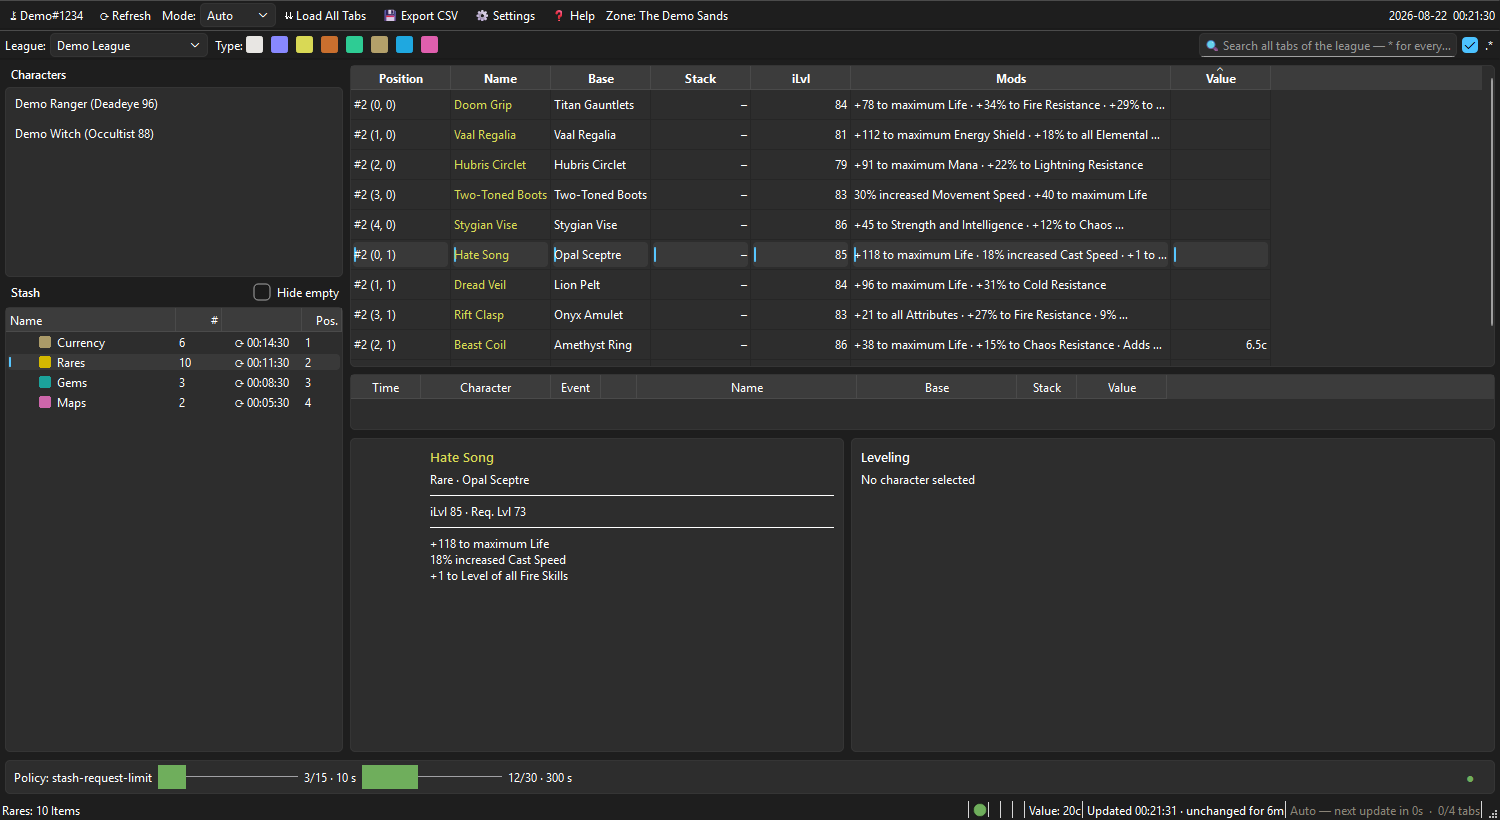
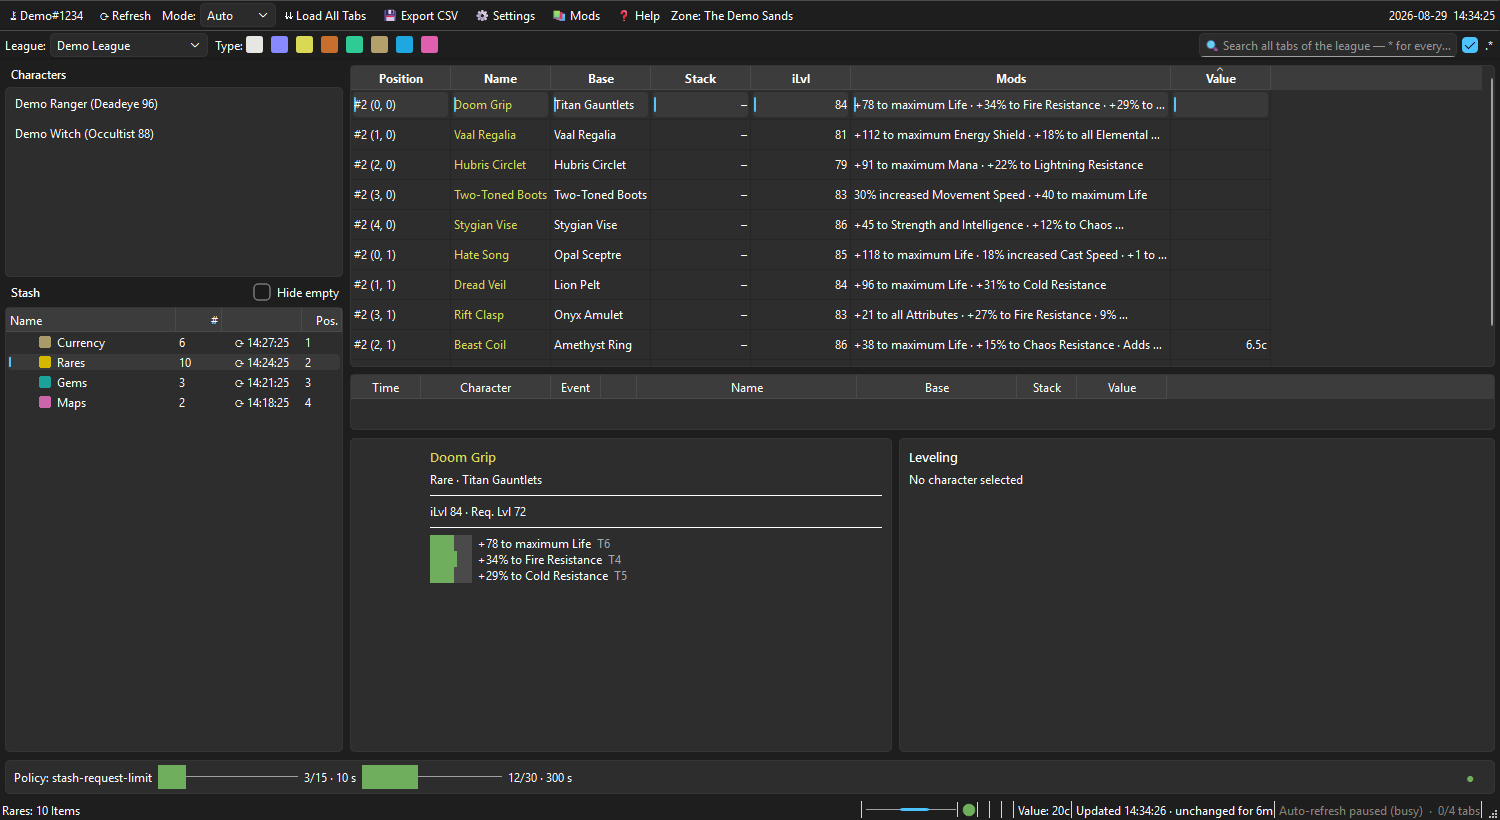
Release v0.12.0 vorbereiten
Version 0.12.0, Changelog-Abschnitt datiert, README nachgezogen: Die
ganze Mod-Sammlung (Album, Balken, Tier-Leitern, Geisterkarten,
Hauptwerte, Neu-Laden) fehlte dort komplett — der Fall aus RELEASING
Schritt 5, zum vierten Mal. Neuer Abschnitt "Mod collection", RePoE
unter "Data sources" (Daten gehoeren GGG, Laufzeit-Download), neues
Album-Bild.

Screenshot-Generator: saet eine Demo-Sammlung (jede Rare in sechs
Roll-Varianten) und ein Demo-Mod-Wissen, damit Balken, T-Etiketten,
Slots und zwei Geisterkarten in den Bildern vorkommen; neues Bild
mod-album.png; das Detail-Bild markiert jetzt Titan Gauntlets statt
des Zepters, das als Waffe ohne Properties keine Kategorie hat.

Zwei Kommentare im Hauptfenster nachgezogen (Stufe 2-4 sind gebaut,
Seed-Modi heissen jetzt richtig).

diff --git a/tools/make_screenshots.py b/tools/make_screenshots.py
@@ -57,6 +57,7 @@ from poe_view.services import data_cache, token_store  # noqa: E402
 data_cache._CACHE_FILE = _TMP / "unused.json"
 token_store.load_token = lambda: None  # kein echtes Konto, kein echter Login
 
+from poe_view.services.mod_knowledge import Knowledge, TierStep  # noqa: E402
 from poe_view.ui.favourites import FavouriteRow  # noqa: E402
 from poe_view.ui.item_history import HistoryEntry  # noqa: E402
 from poe_view.ui.main_window import MainWindow, _XpWatch  # noqa: E402
@@ -274,6 +275,76 @@ def _character_items(before: bool) -> list[Item]:
 
 
 # --------------------------------------------------------------------- #
+# Die Mod-Sammlung (§4.52) und das Mod-Wissen (§4.53) fuer die Bilder:
+# ohne Sichtungen gaebe es keine Balken, ohne Leitern keine T-Etiketten,
+# keine Slots und keine Geisterkarten. Beides erfunden, aber in der Form
+# der echten Daten — die Leitern folgen dem Sechser-Raster, das PoE
+# tatsaechlich fuer Resistenzen benutzt.
+
+_DEMO_LADDERS: dict[str, list[tuple[int, int, int]]] = {
+    "# to maximum Life": [(1, 3, 9), (5, 10, 19), (11, 20, 29), (18, 30, 39),
+                          (24, 40, 49), (30, 50, 59), (36, 60, 69), (44, 70, 79),
+                          (54, 80, 89), (64, 90, 99), (73, 100, 109), (81, 110, 119),
+                          (86, 120, 129)],
+    "#% to Fire Resistance": [(1, 6, 11), (12, 12, 17), (24, 18, 23), (36, 24, 29),
+                              (48, 30, 35), (60, 36, 41), (72, 42, 45), (84, 46, 48)],
+    "#% to Cold Resistance": [(1, 6, 11), (12, 12, 17), (24, 18, 23), (36, 24, 29),
+                              (48, 30, 35), (60, 36, 41), (72, 42, 45), (84, 46, 48)],
+    "#% to Lightning Resistance": [(1, 6, 11), (12, 12, 17), (24, 18, 23), (36, 24, 29),
+                                   (48, 30, 35), (60, 36, 41), (72, 42, 45), (84, 46, 48)],
+    "#% to Chaos Resistance": [(16, 5, 10), (30, 11, 15), (44, 16, 20), (56, 21, 25),
+                               (65, 26, 30), (81, 31, 35)],
+    "# to maximum Mana": [(1, 15, 19), (11, 20, 29), (18, 30, 39), (24, 40, 49),
+                          (30, 50, 59), (36, 60, 69), (44, 70, 79), (54, 80, 89),
+                          (64, 90, 99), (73, 100, 109), (81, 110, 119)],
+    "# to maximum Energy Shield": [(1, 3, 5), (9, 6, 11), (18, 12, 17), (30, 18, 23),
+                                   (42, 24, 29), (54, 30, 35), (66, 36, 41),
+                                   (78, 42, 47), (86, 48, 53)],
+    "#% increased Movement Speed": [(15, 10, 10), (30, 15, 15), (40, 20, 20),
+                                    (55, 25, 25), (70, 30, 30), (86, 35, 35)],
+    # Nie in den Demo-Items — das sind die Geisterkarten im Album.
+    "# to Accuracy Rating": [(1, 5, 15), (5, 16, 60), (11, 61, 120), (23, 121, 200),
+                             (35, 201, 300), (48, 301, 350), (63, 351, 400)],
+    "#% increased Rarity of Items found": [(3, 6, 10), (12, 11, 14), (28, 15, 18),
+                                           (61, 19, 22), (75, 23, 26)],
+}
+_DEMO_LADDER_CATEGORIES = ("Gloves", "Body Armour", "Helmet", "Boots", "Belt",
+                           "Ring", "Amulet")
+
+
+def _demo_knowledge() -> Knowledge:
+    return Knowledge({(identity, kat): [TierStep(lv, lo, hi) for lv, lo, hi in stufen]
+                      for identity, stufen in _DEMO_LADDERS.items()
+                      for kat in _DEMO_LADDER_CATEGORIES})
+
+
+def _scaled(line: str, faktor: float) -> str:
+    """Dieselbe Mod-Zeile mit skalierten Zahlen — ein anderer Roll."""
+    import re
+    return re.sub(r"\d+", lambda m: str(max(1, round(int(m.group()) * faktor))), line)
+
+
+def _seed_mod_collection(win: MainWindow) -> None:
+    """Sichtungen fuer die Sammlung: jede Demo-Rare in sechs Varianten mit
+    absteigenden Rolls, damit die Balken eine Spanne haben und die Slots
+    mehrere Sprossen treffen. Deterministisch, damit die Bilder bei jedem
+    Lauf gleich ausfallen."""
+    for i, (name, base, ilvl, mods) in enumerate(_RARES):
+        for k, faktor in enumerate((1.0, 0.85, 0.7, 0.55, 0.45, 0.35)):
+            item = _rare(f"{name}-{k}", base, max(30, ilvl - 8 * k),
+                         [_scaled(m, faktor) for m in mods], 0, 0)
+            item.league = LEAGUE
+            win._mod_collection.observe_item(item)
+    for item in _items_by_tab()["rares"]:
+        item.league = LEAGUE
+        win._mod_collection.observe_item(item)
+    win._mod_collection.clear_new()
+    # Ein einzelner Fund dieser Sitzung, damit das ✦ im Bild vorkommt.
+    fund = _rare("Demo Find", "Amethyst Ring", 80, ["+15% to Cold Resistance"], 0, 0)
+    fund.league = LEAGUE
+    win._mod_collection.observe_item(fund)
+    win._on_mod_knowledge_loaded(_demo_knowledge())
+
 
 def _build_window() -> MainWindow:
     win = MainWindow()
@@ -328,6 +399,7 @@ def _build_window() -> MainWindow:
         "X-Rate-Limit-Account-State": "3:10:0,12:300:0",
     })
     win._on_rate_limit_changed(*win.worker.rate_limiter.snapshot())
+    _seed_mod_collection(win)
     return win
 
 
@@ -394,10 +466,36 @@ def _item_details(win: MainWindow) -> None:
     win._current_stash_id = "rares"
     win._current_tab_name = "Rares"
     win._show_items("rares", win._items[LEAGUE]["rares"], "Rares")
-    win.table.selectRow(5)
-    win._on_row_selected(win.proxy.index(5, 0), None)
+    # Ein Item mit Kategorie und drei Mods, die alle eine Demo-Leiter
+    # haben — so zeigt das Bild Balken UND Tier-Etiketten (§4.53.4). Das
+    # Zepter, das vorher markiert war, hat als Waffe ohne Properties
+    # keine Kategorie und damit nichts von beidem.
+    zeile = _row_of(win, "Doom Grip")
+    win.table.selectRow(zeile)
+    win._on_row_selected(win.proxy.index(zeile, 0), None)
     win._note_view_updated()
     _shot(win, "item-details.png")
+
+
+def _mod_album(win: MainWindow) -> None:
+    """Das Album (§4.53): Karten mit Slots, ein Geist, der Steckbrief mit
+    der Leiter. Geoeffnet wie im Programm — in der Liga des Viewers."""
+    app = QApplication.instance()
+    win._open_mod_album()
+    dlg = win._mod_album_dialog
+    dlg.resize(1500, 820)
+    for _ in range(3):
+        app.processEvents()
+    zeile = dlg._model.row_of(("explicitMods", "# to maximum Life"))
+    index = dlg._proxy.mapFromSource(dlg._model.index(zeile, 0))
+    dlg._table.setCurrentIndex(index)
+    dlg._cards.scrollTo(index)
+    for _ in range(3):
+        app.processEvents()
+    path = OUT / "mod-album.png"
+    assert dlg.grab().save(str(path)), "mod-album.png ließ sich nicht schreiben"
+    print(f"  {path.relative_to(OUT.parent.parent)}  ({path.stat().st_size // 1024} KB)")
+    dlg.close()
 
 
 def _demo_leveling(win: MainWindow) -> None:
@@ -515,6 +613,7 @@ def main() -> None:
     print("Screenshots aus erfundenen Daten:")
     _overview(win)
     _item_details(win)
+    _mod_album(win)
     _character_history(win)
     win.worker.stop()
     win.worker.wait(5000)

diff --git a/poe_view/ui/main_window.py b/poe_view/ui/main_window.py
@@ -714,8 +714,8 @@ class MainWindow(QMainWindow):
         self._mod_collection = mod_collection.ModCollection()
         # Echte Tier-Leitern aus RePoE (§4.53) — None, solange nichts
         # geladen ist (kein Cache, noch kein Download gelungen) oder noch
-        # gar keine Antwort da ist. Rein lesend verwendet, sobald es
-        # eine UI-Stelle dafür gibt (Stufe 2-4, noch nicht gebaut).
+        # gar keine Antwort da ist. Rein lesend verwendet: Album
+        # (§4.53.1–4.53.5), Balken und Tier-Etikett am Item (§4.53.4).
         self._mod_knowledge: mod_knowledge.Knowledge | None = None
         # "full" = alles einlesen, "backfill" = nur Tier-Belege und/oder
         # Hauptwerte nachtragen, "rebuild" = Zaehlstaende neu aufbauen
@@ -941,8 +941,8 @@ class MainWindow(QMainWindow):
             return
         scheibe = self._mod_seed_queue[:self._MOD_SEED_SLICE]
         del self._mod_seed_queue[:len(scheibe)]
-        nur_tiers = getattr(self, "_mod_seed_mode", "full") == "backfill"
-        if nur_tiers:
+        nachtrag = getattr(self, "_mod_seed_mode", "full") == "backfill"
+        if nachtrag:
             if getattr(self, "_mod_backfill_tiers", False):
                 self._mod_collection.backfill_tiers(scheibe)
             if getattr(self, "_mod_backfill_stats", False):
@@ -959,7 +959,7 @@ class MainWindow(QMainWindow):
                 log.info("Mod-Sammlung neu gezaehlt, %d Eintraege ohne "
                          "Item im Cache entfernt.", weg)
             log.info("Mod-Sammlung %s: %s",
-                     "nachgetragen (Tier-Belege/Hauptwerte)" if nur_tiers
+                     "nachgetragen (Tier-Belege/Hauptwerte)" if nachtrag
                      else "aus dem Cache gefüllt",
                      mod_collection.summary(self._mod_collection))
             # Der Grundstock ist kein Fund: 6125 Einträge auf einmal wären

diff --git a/poe_view/__init__.py b/poe_view/__init__.py
@@ -6,4 +6,4 @@ Schichten (Abhängigkeiten zeigen nur nach unten, siehe docs/ARCHITEKTUR.md §3)
   api/      reines Python: OAuth, HTTP-Client, Rate-Limiter, Datenmodelle
 """
 
-__version__ = "0.11.2"
+__version__ = "0.12.0"

diff --git a/README.md b/README.md
@@ -38,7 +38,10 @@ first.
 ![League-wide search across tabs and characters](docs/screenshots/uebersicht.png)
 
 A single stash tab with an item selected; its mods are shown in the
-detail panel below.
+detail panel below. The bar in front of each line shows where that roll
+sits on the real tier ladder (or, without a known ladder, between the
+worst and best roll you have ever seen), and the tier stands behind the
+line.
 
 ![Single tab with a selected item and its mods](docs/screenshots/item-details.png)
 
@@ -50,6 +53,16 @@ to a single line by default. On the right, the levelling panel shows gem
 progress and the last three hours of experience.
 
 ![Character inventory with refresh highlighting and the item history](docs/screenshots/charakter-verlauf.png)
+
+The mod collection as an album: one card per mod, a coloured edge and
+symbol for its theme, a row of slots — one per tier the game can roll,
+filled means you have rolled it — and a golden frame for a complete set.
+Dashed cards are ghosts: mods the game knows that you have not collected
+in this league yet. The score line above counts collected of possible;
+the panel below is the selected mod's ladder, straight from game data,
+with the tiers you still miss left empty.
+
+![The mod collection as an album with tier slots, ghost cards and the tier ladder](docs/screenshots/mod-album.png)
 
 ## Features
 
@@ -141,6 +154,44 @@ progress and the last three hours of experience.
   reference sites you define yourself (name plus a URL template with a
   `{slug}` placeholder). Nothing is preconfigured — see
   [Data sources](#data-sources).
+
+### Mod collection
+
+- **Every mod line that passes through your stash is collected**: how
+  often seen, lowest and highest roll, on which item levels — kept apart
+  by league (temporary leagues each get their own pot, the permanent
+  ones share one) and by rarity, with corrupted items counted
+  separately. The collection fills itself from the existing cache on
+  first start and grows from then on without a single extra request. A
+  sighting is one item passing through your hands; the same item fetched
+  again on the next refresh does not count twice.
+- **A bar in front of every mod line** in the item panel: where this
+  roll sits on the real tier ladder of that mod — full means the best
+  roll the game can give — with the tier (`T1` gold, `T2` silver, `T3`
+  bronze) behind the line. Where no ladder is known, the bar compares
+  against the worst and best roll you have seen yourself. `✦` marks a
+  mod seen for the first time.
+- **Real tier ladders from game data**: PoE-VIEW2 downloads public game
+  data (RePoE) in the background at start and builds the tier ladder of
+  every prefix and suffix per item base — checked against a real stash:
+  81 % of all tier-capable sightings have a proven ladder. Hybrid mods
+  (e.g. "Fire and Lightning Resistances") are a known gap.
+- **The album** (toolbar button "📚 Mods"): one card per mod, with a
+  coloured edge and symbol for its theme, a row of tier slots (filled =
+  rolled) and a golden frame for a complete set. Ghost cards show what
+  the game can roll but you have never collected in the selected league;
+  the score line reads "73 of 313 mods collected". The detail panel
+  lists every league and rarity the mod was seen in and its full ladder
+  — T1 at the top, unlock level, how often seen, your best roll, the
+  missing tiers left empty. Search, kind/league/rarity filters, sorting
+  by name, newest finds, most seen, most complete or most missing; a
+  table view for serious searching; `⟳` reloads what the collection
+  gained while the window was open. The album opens on the league you
+  are viewing.
+- **Base stats are collected too**: armour, evasion, energy shield,
+  ward and block per armour type, physical and elemental damage, crit
+  and attacks per second per weapon type — as cards of their own and
+  with the same bar on the item panel.
 
 ### Levelling
 
@@ -242,6 +293,11 @@ PoE-VIEW2 contacts these hosts, and no others:
   data. Note that SSF leagues are not tracked there at all: without
   player trading there is no market activity to derive prices from, so
   the Value column stays empty in those leagues.
+- **`repoe-fork.github.io`** — the public RePoE export of the game's
+  mod tables (`mods`, `stat_translations`, `base_items`, about 30 MB),
+  for the real tier ladders in the mod collection. Downloaded at start
+  and cached for seven days. The data itself belongs to Grinding Gear
+  Games; it is fetched at runtime and never shipped with PoE-VIEW2.
 
 Beyond that, the item lookups in the right-click menu are **empty out of
 the box**. PoE-VIEW2 deliberately ships without any preconfigured
@@ -347,7 +403,7 @@ the worker, and the UI logic. It requires no network access.
 
 PoE-VIEW2 is in daily use. Login, stash and character views, search,
 filters, CSV export, refresh modes, price display, levelling display,
-and offline mode all work. The project is developed by a single person
+the mod collection with its album, and offline mode all work. The project is developed by a single person
 and makes no claim to completeness compared to the official PoE website.
 Bug reports and pull requests are welcome.
 

diff --git a/CHANGELOG.md b/CHANGELOG.md
@@ -6,6 +6,8 @@ nach [SemVer](https://semver.org/lang/de/).
 
 ## [Unveröffentlicht]
 
+## [0.12.0] - 2026-08-29
+
 ### Neu
 
 - **Mod-Sammlung**: Jede Mod-Zeile, die durch die Truhe geht, wird
@@ -1162,7 +1164,8 @@ Erste veröffentlichte Version.
 Die technischen Hintergründe einzelner Entscheidungen stehen in
 [FALLSTRICKE_UND_WORKAROUNDS.md](FALLSTRICKE_UND_WORKAROUNDS.md).
 
-[Unveröffentlicht]: https://github.com/peterm2024/PoE-VIEW2/compare/v0.11.2...HEAD
+[Unveröffentlicht]: https://github.com/peterm2024/PoE-VIEW2/compare/v0.12.0...HEAD
+[0.12.0]: https://github.com/peterm2024/PoE-VIEW2/compare/v0.11.2...v0.12.0
 [0.11.2]: https://github.com/peterm2024/PoE-VIEW2/compare/v0.11.1...v0.11.2
 [0.11.1]: https://github.com/peterm2024/PoE-VIEW2/compare/v0.11.0...v0.11.1
 [0.11.0]: https://github.com/peterm2024/PoE-VIEW2/compare/v0.10.0...v0.11.0
